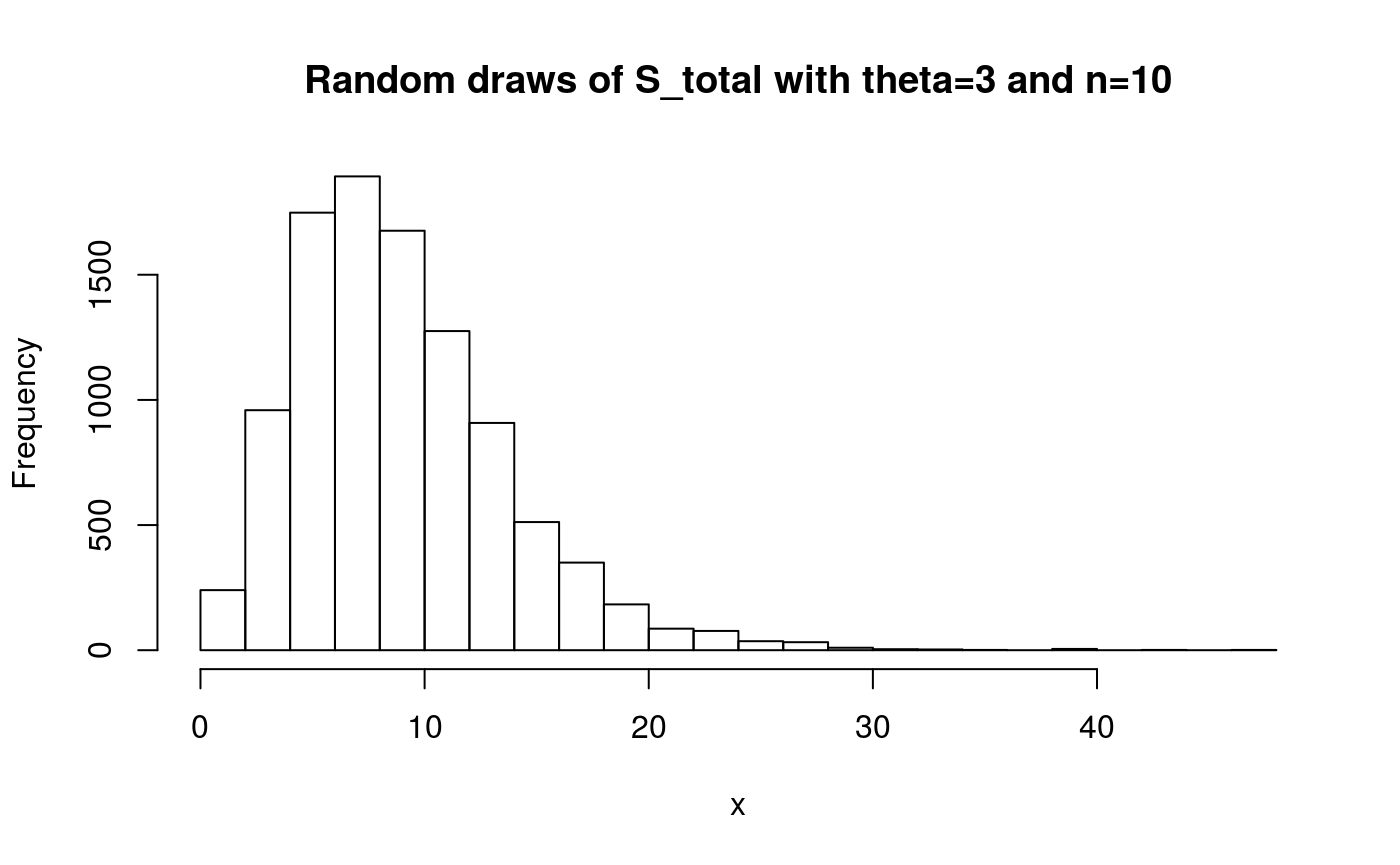
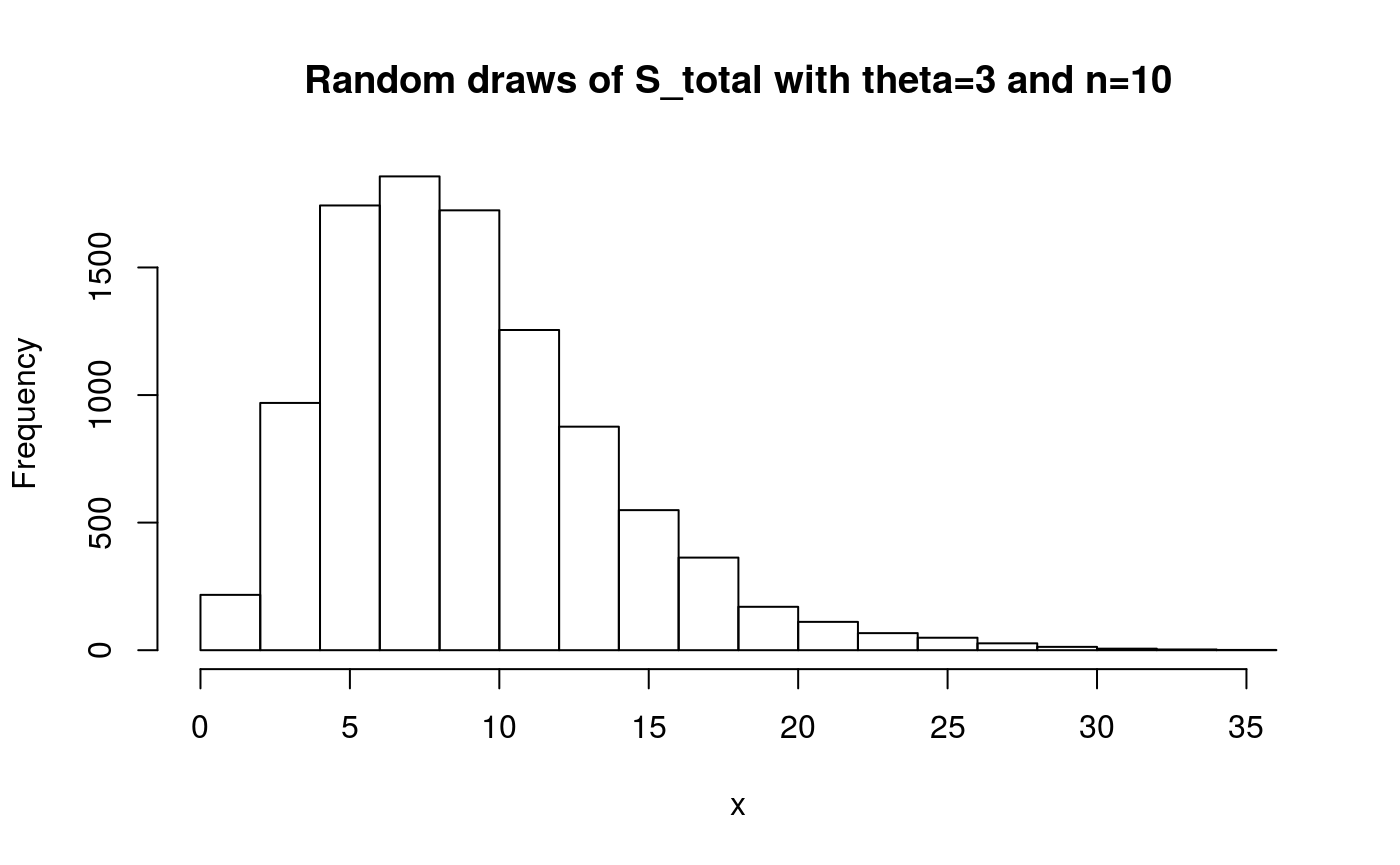
Updated website

diff --git a/docs/articles/ticphasetype.html b/docs/articles/ticphasetype.html
@@ -173,11 +173,11 @@
 <a class="sourceLine" id="cb8-12" data-line-number="12"></a>
 <a class="sourceLine" id="cb8-13" data-line-number="13">subint_arbit[n<span class="dv">-1</span>,n<span class="dv">-1</span>] &lt;-<span class="st"> </span><span class="dv">-1</span></a></code></pre></div>
 <div class="sourceCode" id="cb9"><pre class="sourceCode r"><code class="sourceCode r"><a class="sourceLine" id="cb9-1" data-line-number="1">subint_arbit</a>
-<a class="sourceLine" id="cb9-2" data-line-number="2"><span class="co">#&gt;           [,1]       [,2]      [,3]      [,4]</span></a>
-<a class="sourceLine" id="cb9-3" data-line-number="3"><span class="co">#&gt; [1,] -12.73908   6.881229  1.644583  4.213269</span></a>
-<a class="sourceLine" id="cb9-4" data-line-number="4"><span class="co">#&gt; [2,]   0.00000 -11.098583  8.338307  2.760276</span></a>
-<a class="sourceLine" id="cb9-5" data-line-number="5"><span class="co">#&gt; [3,]   0.00000   0.000000 -1.147533  1.147533</span></a>
-<a class="sourceLine" id="cb9-6" data-line-number="6"><span class="co">#&gt; [4,]   0.00000   0.000000  0.000000 -1.000000</span></a></code></pre></div>
+<a class="sourceLine" id="cb9-2" data-line-number="2"><span class="co">#&gt;           [,1]      [,2]      [,3]      [,4]</span></a>
+<a class="sourceLine" id="cb9-3" data-line-number="3"><span class="co">#&gt; [1,] -15.73879  7.973372  6.637744  1.127670</span></a>
+<a class="sourceLine" id="cb9-4" data-line-number="4"><span class="co">#&gt; [2,]   0.00000 -9.086550  6.659070  2.427481</span></a>
+<a class="sourceLine" id="cb9-5" data-line-number="5"><span class="co">#&gt; [3,]   0.00000  0.000000 -7.434251  7.434251</span></a>
+<a class="sourceLine" id="cb9-6" data-line-number="6"><span class="co">#&gt; [4,]   0.00000  0.000000  0.000000 -1.000000</span></a></code></pre></div>
 <p>This matrix can be supplied to the <code><a href="../reference/cont_phase_type.html">cont_phase_type()</a></code> generator function, together with optional initial probabilities:</p>
 <div class="sourceCode" id="cb10"><pre class="sourceCode r"><code class="sourceCode r"><a class="sourceLine" id="cb10-1" data-line-number="1">T_arbit_ph &lt;-<span class="st"> </span><span class="kw"><a href="../reference/cont_phase_type.html">cont_phase_type</a></span>(<span class="dt">subint_mat =</span> subint_arbit)</a>
 <a class="sourceLine" id="cb10-2" data-line-number="2"><span class="co">#&gt; Warning in cont_phase_type(subint_mat = subint_arbit): The initial</span></a>
@@ -187,11 +187,11 @@
 <div class="sourceCode" id="cb11"><pre class="sourceCode r"><code class="sourceCode r"><a class="sourceLine" id="cb11-1" data-line-number="1"><span class="kw"><a href="https://rdrr.io/r/base/summary.html">summary</a></span>(T_arbit_ph)</a>
 <a class="sourceLine" id="cb11-2" data-line-number="2"><span class="co">#&gt; </span></a>
 <a class="sourceLine" id="cb11-3" data-line-number="3"><span class="co">#&gt; Subintensity matrix:</span></a>
-<a class="sourceLine" id="cb11-4" data-line-number="4"><span class="co">#&gt;           [,1]       [,2]      [,3]      [,4]</span></a>
-<a class="sourceLine" id="cb11-5" data-line-number="5"><span class="co">#&gt; [1,] -12.73908   6.881229  1.644583  4.213269</span></a>
-<a class="sourceLine" id="cb11-6" data-line-number="6"><span class="co">#&gt; [2,]   0.00000 -11.098583  8.338307  2.760276</span></a>
-<a class="sourceLine" id="cb11-7" data-line-number="7"><span class="co">#&gt; [3,]   0.00000   0.000000 -1.147533  1.147533</span></a>
-<a class="sourceLine" id="cb11-8" data-line-number="8"><span class="co">#&gt; [4,]   0.00000   0.000000  0.000000 -1.000000</span></a>
+<a class="sourceLine" id="cb11-4" data-line-number="4"><span class="co">#&gt;           [,1]      [,2]      [,3]      [,4]</span></a>
+<a class="sourceLine" id="cb11-5" data-line-number="5"><span class="co">#&gt; [1,] -15.73879  7.973372  6.637744  1.127670</span></a>
+<a class="sourceLine" id="cb11-6" data-line-number="6"><span class="co">#&gt; [2,]   0.00000 -9.086550  6.659070  2.427481</span></a>
+<a class="sourceLine" id="cb11-7" data-line-number="7"><span class="co">#&gt; [3,]   0.00000  0.000000 -7.434251  7.434251</span></a>
+<a class="sourceLine" id="cb11-8" data-line-number="8"><span class="co">#&gt; [4,]   0.00000  0.000000  0.000000 -1.000000</span></a>
 <a class="sourceLine" id="cb11-9" data-line-number="9"><span class="co">#&gt; </span></a>
 <a class="sourceLine" id="cb11-10" data-line-number="10"><span class="co">#&gt; Initial probabilities:</span></a>
 <a class="sourceLine" id="cb11-11" data-line-number="11"><span class="co">#&gt;      [,1] [,2] [,3] [,4]</span></a>
@@ -200,9 +200,9 @@
 <a class="sourceLine" id="cb11-14" data-line-number="14"><span class="co">#&gt; Defect:</span></a>
 <a class="sourceLine" id="cb11-15" data-line-number="15"><span class="co">#&gt; [1] 0</span></a>
 <a class="sourceLine" id="cb11-16" data-line-number="16"><span class="co">#&gt; </span></a>
-<a class="sourceLine" id="cb11-17" data-line-number="17"><span class="co">#&gt; Mean: 1.593318</span></a>
+<a class="sourceLine" id="cb11-17" data-line-number="17"><span class="co">#&gt; Mean: 1.225961</span></a>
 <a class="sourceLine" id="cb11-18" data-line-number="18"><span class="co">#&gt; </span></a>
-<a class="sourceLine" id="cb11-19" data-line-number="19"><span class="co">#&gt; Variance: 1.62606</span></a></code></pre></div>
+<a class="sourceLine" id="cb11-19" data-line-number="19"><span class="co">#&gt; Variance: 1.029616</span></a></code></pre></div>
 </div>
 <div id="density-distribution-and-quantile-functions" class="section level2">
 <h2 class="hasAnchor">
@@ -233,7 +233,7 @@
 <a class="sourceLine" id="cb17-5" data-line-number="5"><span class="kw"><a href="https://rdrr.io/r/graphics/title.html">title</a></span>(<span class="st">'Distribution function of T_MRCA'</span>)</a></code></pre></div>
 <p><img src="ticphasetype_files/figure-html/unnamed-chunk-17-1.png" width="700"></p>
 <div class="sourceCode" id="cb18"><pre class="sourceCode r"><code class="sourceCode r"><a class="sourceLine" id="cb18-1" data-line-number="1"><span class="kw"><a href="../reference/dphtype.html">rphtype</a></span>(<span class="dv">3</span>, T_MRCA_ph)</a>
-<a class="sourceLine" id="cb18-2" data-line-number="2"><span class="co">#&gt; [1] 2.978160 1.627345 2.093345</span></a></code></pre></div>
+<a class="sourceLine" id="cb18-2" data-line-number="2"><span class="co">#&gt; [1] 1.8071855 0.3556518 1.0832826</span></a></code></pre></div>
 <div class="sourceCode" id="cb19"><pre class="sourceCode r"><code class="sourceCode r"><a class="sourceLine" id="cb19-1" data-line-number="1">x &lt;-<span class="st"> </span><span class="kw"><a href="../reference/dphtype.html">rphtype</a></span>(<span class="dv">10000</span>, T_MRCA_ph)</a>
 <a class="sourceLine" id="cb19-2" data-line-number="2"><span class="kw"><a href="https://rdrr.io/r/graphics/hist.html">hist</a></span>(x, <span class="dt">main =</span> <span class="st">'Random draws of T_MRCA'</span>, <span class="dt">breaks=</span><span class="dv">20</span>)</a></code></pre></div>
 <p><img src="ticphasetype_files/figure-html/unnamed-chunk-19-1.png" width="700"></p>
@@ -458,7 +458,7 @@
 <a class="sourceLine" id="cb31-5" data-line-number="5"><span class="kw"><a href="https://rdrr.io/r/graphics/title.html">title</a></span>(<span class="st">'Quantile function of S_total with theta=3 and n=10'</span>)</a></code></pre></div>
 <p><img src="ticphasetype_files/figure-html/unnamed-chunk-31-1.png" width="700"></p>
 <div class="sourceCode" id="cb32"><pre class="sourceCode r"><code class="sourceCode r"><a class="sourceLine" id="cb32-1" data-line-number="1"><span class="kw"><a href="../reference/dphtype.html">rphtype</a></span>(<span class="dv">3</span>, S_tot_ph)</a>
-<a class="sourceLine" id="cb32-2" data-line-number="2"><span class="co">#&gt; [1] 11  3  7</span></a></code></pre></div>
+<a class="sourceLine" id="cb32-2" data-line-number="2"><span class="co">#&gt; [1] 12  9 17</span></a></code></pre></div>
 <div class="sourceCode" id="cb33"><pre class="sourceCode r"><code class="sourceCode r"><a class="sourceLine" id="cb33-1" data-line-number="1">x &lt;-<span class="st"> </span><span class="kw"><a href="../reference/dphtype.html">rphtype</a></span>(<span class="dv">10000</span>, S_tot_ph)</a>
 <a class="sourceLine" id="cb33-2" data-line-number="2"><span class="kw"><a href="https://rdrr.io/r/graphics/hist.html">hist</a></span>(x, <span class="dt">main =</span> <span class="st">'Random draws of S_total with theta=3 and n=10'</span>, <span class="dt">breaks=</span><span class="dv">20</span>)</a></code></pre></div>
 <p><img src="ticphasetype_files/figure-html/unnamed-chunk-33-1.png" width="700"></p>
